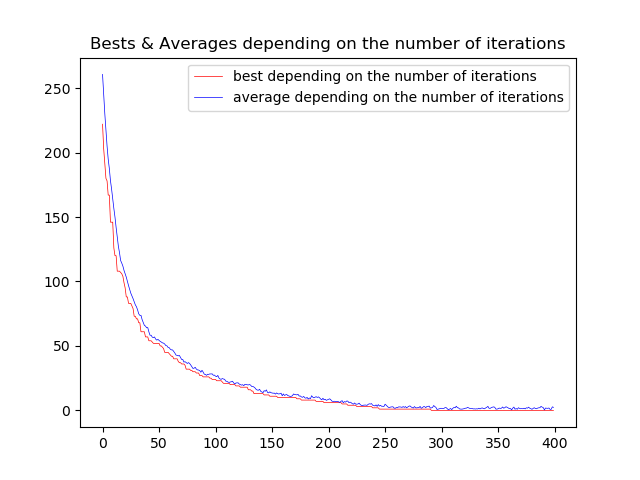
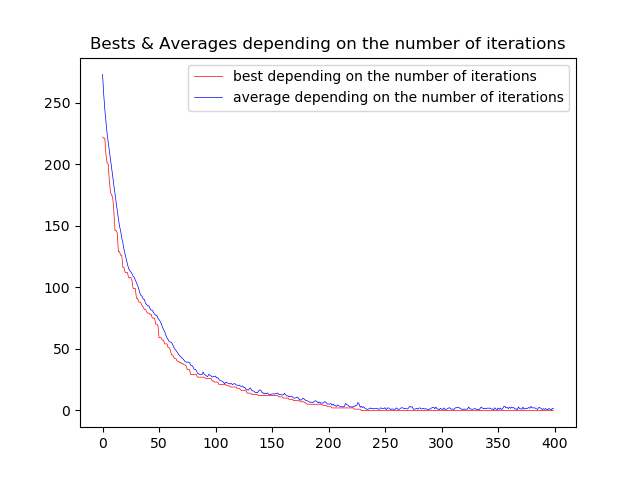
Finished pb5

diff --git a/src/problems/problem5/problem5_classes.py b/src/problems/problem5/problem5_classes.py
@@ -1,7 +1,7 @@
 from problem_interface import Problem
 from individual_interface import Individual
 from problems.problem5.map import TspGraph
-from random import randint
+from random import shuffle, choices, random
 
 
 class TravellingSalesmanProblem(Problem):
@@ -53,18 +53,17 @@ class TravellingSalesmanIndividual(Individual):
         self.__max_value = max_value
         super(TravellingSalesmanIndividual, self).__init__(*args)
 
-    def get_random_gene(self):
-        """
-        Returns a random letter from valid choices
-        As we need to find an individual's score more often than printing the corresponding message,
-        Using the letters' index as genes will gain us computations
-        :rtype: str
-        :UC: none
-        """
-        return randint(1, self.__max_value)
+    def init_value(self):
+        x = list(range(1, self.__max_value + 1))
+        shuffle(x)
+        return x
 
-    def mutate_once(self, gene):
-        new = self.get_random_gene()
-        while new == gene:
-            new = self.get_random_gene()
-        return new
+    def mutate(self, probability):
+        genome = self.get_value()
+        number_of_mutations = sum([1 for _ in range(self.get_size()) if probability > random()])
+        indexes = choices(range(self.get_size()), k=number_of_mutations)
+        values = [genome[i] for i in indexes]
+        shuffle(indexes)
+        for i in indexes:
+            genome[i] = values.pop()
+        self.set_value(genome)

diff --git a/src/individual_interface.py b/src/individual_interface.py
@@ -9,10 +9,9 @@ class Individual(object):
         get_random_gene() <- static method
         mutate_once(gene, probability) <- static method
     """
-    def __init__(self, size, condition=None):
+    def __init__(self, size):
         self.__size = size
-        self.__genome = list()
-        self.__init_value(condition)
+        self.__genome = self.init_value()
         self.__score = 0
 
     def copy(self):
@@ -71,7 +70,7 @@ class Individual(object):
         return self.__genome
 
     @staticmethod
-    def get_random_gene(condition=None):
+    def get_random_gene():
         """
         Returns a random value for a gene, depending on the problem
         Will be defined in sub classes, as genes used depend on the problem
@@ -79,15 +78,12 @@ class Individual(object):
         """
         pass
 
-    def __init_value(self, condition):
+    def init_value(self):
         """
         Randomly initializes self's genome
         :return: none
         """
-        if condition:
-            self.__genome = [self.get_random_gene(condition) for _ in range(self.__size)]
-        else:
-            self.__genome = [self.get_random_gene() for _ in range(self.__size)]
+        return [self.get_random_gene() for _ in range(self.__size)]
 
     @staticmethod
     def mutate_once(gene):

diff --git a/src/problems/problem5/map.py b/src/problems/problem5/map.py
@@ -11,7 +11,7 @@ class TspGraph(object):
         with open(graph_file, 'r') as graph_file:
             mat = graph_file.readlines()
             graph = list()
-            for line in mat[:-1]:
+            for line in mat:
                 graph.append([int(n) for n in line.split(',')])
         return graph
 
@@ -54,6 +54,8 @@ class TspGraph(object):
 
 
 if __name__ == '__main__':
-    x = TspGraph('graphs/graph_file_2.txt')
+    import sys
+    graph_number = sys.argv[1]
+    x = TspGraph('graphs/graph_file_{}.txt'.format(graph_number))
     x.visit_all()
-    print(x.get_visited())
+    print(x.cross(x.get_visited()[1:])[1])
